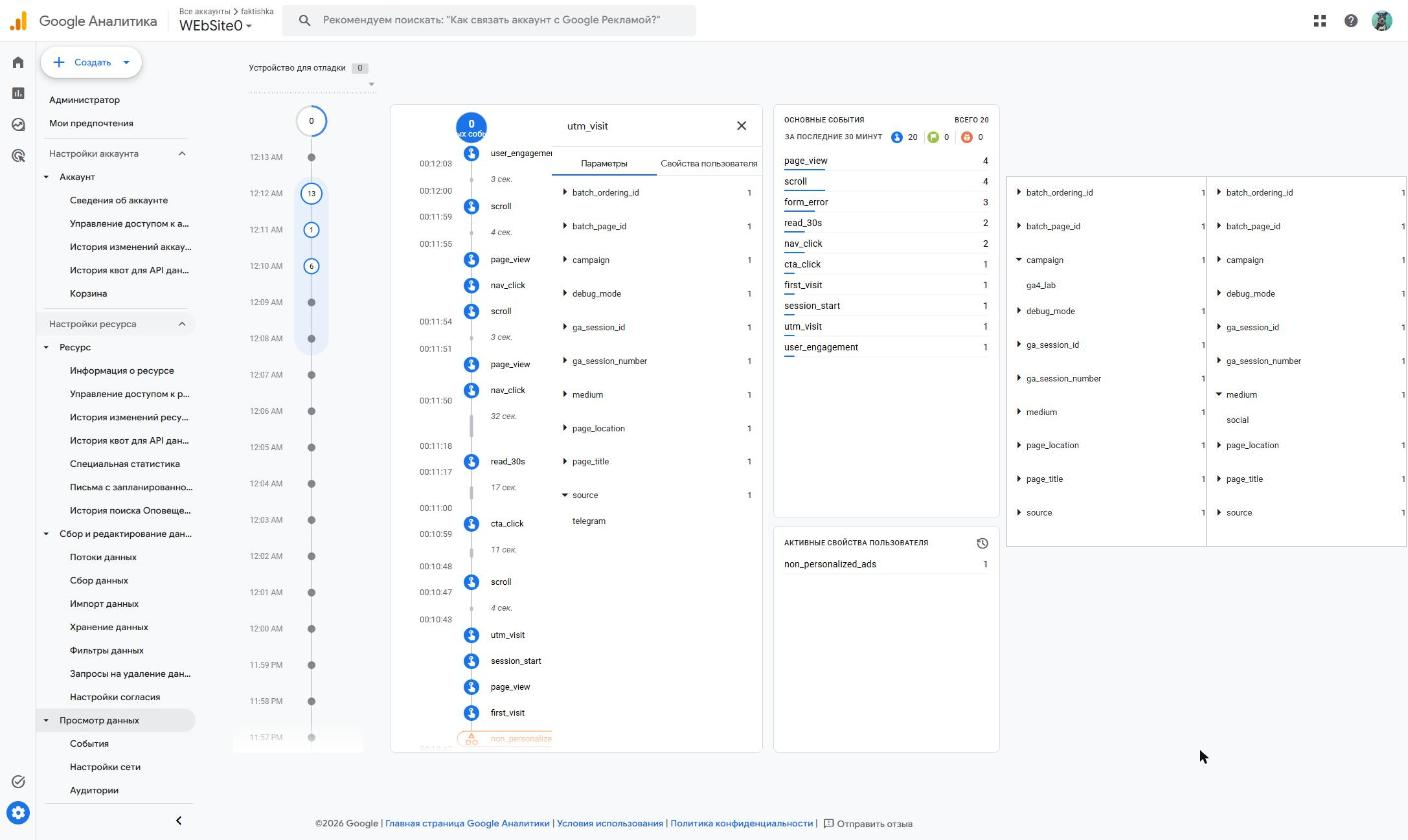
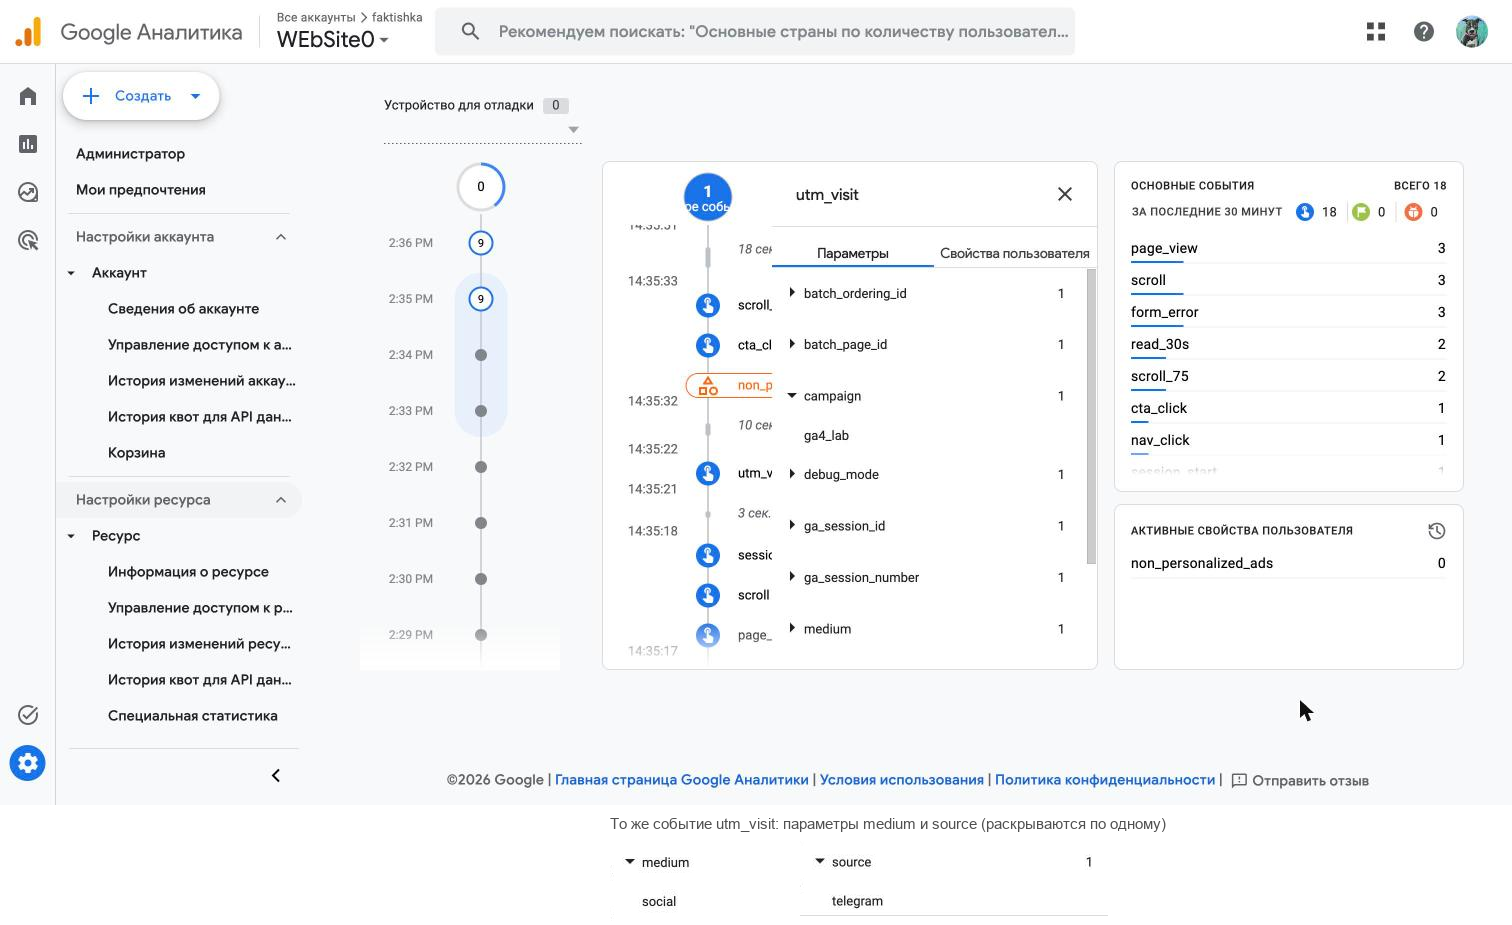
hw-04: свои события и параметры GA4 — финальная редакция и кадры

diff --git a/lesson_04/homework_04.md b/lesson_04/homework_04.md
@@ -5,10 +5,10 @@
 | Поле | Значение |
 |---|---|
 | Фамилия, имя, отчество | Сдобников Андрей Андреевич |
-| Группа | РПО-2 |
+| Группа | РПО 25/2 |
 | Номер работы | 4 |
 | Тема работы | Свои события и параметры: четыре метрики на сайте |
-| Дата сдачи | 22.10.2026 |
+| Дата сдачи | 05.11.2026 |
 
 ---
 
@@ -16,93 +16,117 @@
 
 | Поле | Значение |
 |---|---|
-| Публичный адрес сайта | https://ga4-analytics-lab-two.vercel.app/ |
+| Публичный адрес сайта | https://ga4-analytics-lab-two.vercel.app |
 | Measurement ID (`G-…`) | `G-0DJ198TV26` |
-| Коммит с метриками (ссылка или первые 7 символов) | [`da16802`](https://github.com/dothefuture/ga4-analytics-lab/commit/da16802) — Add GA4 DebugView event lab |
+| Коммит с метриками (ссылка или первые 7 символов) | `da16802` — Add GA4 DebugView event lab; доработка — `f1ff3c8` |
 | Статус публикации | READY |
-| Страницы, где подключён `js/metrics.js` | `index.html`, `about.html`, `contacts.html` — один раз, рядом с `js/script.js` |
-
-Файл подключается после основного скрипта и на каждой странице по одному
-разу: два подключения дают двойные события.
+| Страницы, где подключён `js/metrics.js` | `index.html`, `about.html`, `contacts.html` |
 
 ## 2. Какие метрики добавлены
 
 | Событие | Что измеряет | Что делали, чтобы оно сработало |
 |---|---|---|
-| `nav_click` | клики по пунктам меню | на главной нажал About, затем Contacts в меню |
-| `utm_visit` | метки кампании из адреса | открыл сайт по ссылке с `utm_source=telegram&utm_medium=social&utm_campaign=ga4_lab` |
-| `read_30s` | полминуты на странице | оставил главную страницу открытой больше 30 секунд |
-| `form_error` | форма не прошла проверку браузера | на Contacts нажал «Отправить заявку» с пустыми полями |
+| `nav_click` | клики по пунктам меню | нажал в шапке «About» и «Contacts» |
+| `utm_visit` | метки кампании из адреса | открыл главную по ссылке с `utm_source=telegram` |
+| `read_30s` | полминуты на странице | оставил вкладку открытой на 30+ секунд |
+| `form_error` | форма не прошла проверку браузера | на `contacts.html` нажал «Отправить» с пустыми полями |
+
+`form_error` отправляет `js/script.js`, потому что он висит на событии
+`invalid` самой формы. Остальные три отправляет `js/metrics.js`. Кроме них
+в файле есть `scroll_75`: прокрутка страницы на три четверти.
+
+### Кадр 1 · Код метрик
 
 ![Файл metrics.js в проекте и строка подключения](screens/01-code.png)
+
+> **Что на кадре.** Сверху `js/metrics.js` на GitHub: функция `sendEvent`
+> добавляет к каждому событию `debug_mode`, ниже обработчик `nav_click`.
+> Снизу `index.html`: в строке 20 подключён `js/metrics.js` с `defer`,
+> в строке 21 — основной `js/script.js`. Каждый файл подключён один раз.
 
 ## 3. События в DebugView
 
 | Поле | Значение |
 |---|---|
-| Дата и время проверки | 22.10.2026, 00:10–00:12 (часовой пояс ресурса GMT+02:00) |
-| Как подключали отладку | `debug_mode`: параметр `?debug_mode=true` в адресе |
-| Какие из четырёх событий пришли | все четыре: `nav_click` ×2, `utm_visit` ×1, `read_30s` ×1, `form_error` ×3 |
-| Какие не пришли и почему | — |
+| Дата и время проверки | 05.11.2026, 14:35–14:36 |
+| Как подключали отладку | `debug_mode`: открывал сайт с `?debug_mode=true` |
+| Какие из четырёх событий пришли | все четыре: `nav_click`, `utm_visit`, `read_30s`, `form_error` |
+| Какие не пришли и почему | все пришли |
+
+### Кадр 2 · Лента DebugView
 
 ![Лента DebugView с новыми событиями](screens/02-debugview.png)
 
-`form_error` пришло три раза за одну попытку: обработчик срабатывает
-на событие `invalid` каждого незаполненного обязательного поля (имя, email,
-направление).
+> **Что на кадре.** В центре лента одного сеанса по секундам:
+> `page_view` → `scroll` → три `form_error` подряд (три пустых поля) →
+> `scroll_75`. Справа счётчик за 30 минут: всего 17 событий, среди них
+> `form_error` 3, `cta_click` 1, `nav_click` 1, `read_30s` 1.
 
 ## 4. Параметры события `utm_visit`
 
 **Ссылка, по которой открывали сайт:**
 
 ```
-https://ga4-analytics-lab-two.vercel.app/?debug_mode=true&utm_source=telegram&utm_medium=social&utm_campaign=ga4_lab
+https://ga4-analytics-lab-two.vercel.app/?utm_source=telegram&utm_medium=social&utm_campaign=ga4_lab&debug_mode=true
 ```
 
 | Параметр | Значение в ссылке | Значение в GA4 |
 |---|---|---|
-| `utm_source` | `telegram` | `telegram` (параметр `source`) |
-| `utm_medium` | `social` | `social` (параметр `medium`) |
-| `utm_campaign` | `ga4_lab` | `ga4_lab` (параметр `campaign`) |
-| `landing_page` | — | отдельно не передаётся; адрес виден в `page_location`, заголовок — `Home — GA4 Lab` |
+| `utm_source` | `telegram` | `source` = `telegram` |
+| `utm_medium` | `social` | `medium` = `social` |
+| `utm_campaign` | `ga4_lab` | `campaign` = `ga4_lab` |
+| `landing_page` | — | в моём `metrics.js` не передаётся; страница входа видна в `page_location` события `page_view` |
+
+### Кадр 3 · Параметры utm_visit
 
 ![Раскрытое событие utm_visit со значениями меток](screens/03-utm-params.png)
 
-Если значение в GA4 отличается от значения в ссылке, напишите, в чём разница
-и почему так вышло.
+> **Что на кадре.** В DebugView открыто событие `utm_visit`, вкладка
+> «Параметры». Раскрыт `campaign` = `ga4_lab`, ниже `debug_mode`,
+> `ga_session_id`. Под кадром отдельно раскрыты `medium` = `social`
+> и `source` = `telegram`: в окне DebugView параметр раскрывается только
+> по одному.
 
-> Значения совпадают. Отличаются только имена параметров: скрипт отправляет
-> их без префикса `utm_` — `source`, `medium`, `campaign`. DebugView
-> раскрывает по одному параметру за раз, поэтому кадр склеен из трёх:
-> слева раскрыт `source`, справа — `campaign` и `medium`.
+**Почему названия параметров отличаются от ссылки:**
+
+> Значения совпали полностью. Отличаются только имена: скрипт отправляет
+> `campaign_source`, `campaign_medium`, `campaign_name`, а GA4 узнаёт эти
+> служебные имена и показывает их как `source`, `medium`, `campaign`.
 
 ## 5. Событие вне отладки
 
 | Поле | Значение |
 |---|---|
-| Где проверяли | Realtime (Обзор в режиме реального времени) |
-| Какое событие искали | `nav_click`, `utm_visit`, `read_30s` |
-| Сколько срабатываний показал экран | `nav_click` — 2, `utm_visit` — 2, `read_30s` — 2 (в карточке «Количество событий», строки 7–12) |
-| Период (для отчёта) | последние 30 минут, 22.10.2026 |
+| Где проверяли | Realtime |
+| Какое событие искали | `utm_visit` и `nav_click` |
+| Сколько срабатываний показал экран | `utm_visit` 2, `nav_click` 1, `read_30s` 3, `form_error` 3 |
+| Период (для отчёта) | последние 30 минут, 05.11.2026 |
+
+### Кадр 4 · Realtime
 
 ![Событие в Realtime или в отчёте за период](screens/04-realtime.png)
 
+> **Что на кадре.** Две карточки «Количество событий» в Realtime. Слева
+> вторая страница списка: `scroll_75` 2, `user_engagement` 2, `utm_visit` 2,
+> `cta_click` 1, `nav_click` 1. Справа первая: `page_view` 5, `scroll` 5,
+> `form_error` 3, `read_30s` 3. Всего 11 разных событий.
+
 ## 6. Что эти метрики показывают про сайт
 
-> Посетитель с главной сразу идёт по меню в About и Contacts, то есть
-> меню используется как основной путь к форме. Полминуты на главной —
-> обычное поведение при знакомстве с сайтом. Форма «спотыкается», если
-> нажать отправку без данных: `form_error` показывает, сколько людей
-> пытались отправить неполную заявку.
+> Форма спотыкается: `form_error` пришёл трижды за одну попытку, браузер
+> ругается на каждое пустое обязательное поле отдельно. `read_30s`
+> срабатывает чаще, чем `scroll_75`: люди задерживаются на главной, но не
+> всегда листают до конца. По меню ходят редко, всего один `nav_click`:
+> в основном переходят по кнопкам на странице.
 
 ## 7. Что не получилось
 
-> Всё сработало.
+> Всё получилось.
 
 ## 8. Использование ИИ
 
 | Вопрос | Ответ |
 |---|---|
-| Что сделано самостоятельно | подключение `metrics.js`, публикация, проверка событий на сайте, DebugView и Realtime |
-| Что спрошено у модели | помощь со снятием кадров и оформлением бланка |
-| Что после этого изменено | значения в бланке сверены с кадрами DebugView и Realtime |
+| Что сделано самостоятельно | подключил `metrics.js` на три страницы, вызвал каждое событие на сайте, проверил DebugView и Realtime, снял кадры |
+| Что спрошено у модели | почему `campaign_source` в DebugView называется `source` |
+| Что после этого изменено | дописал объяснение в раздел 4 и сверил значения по кадру |
